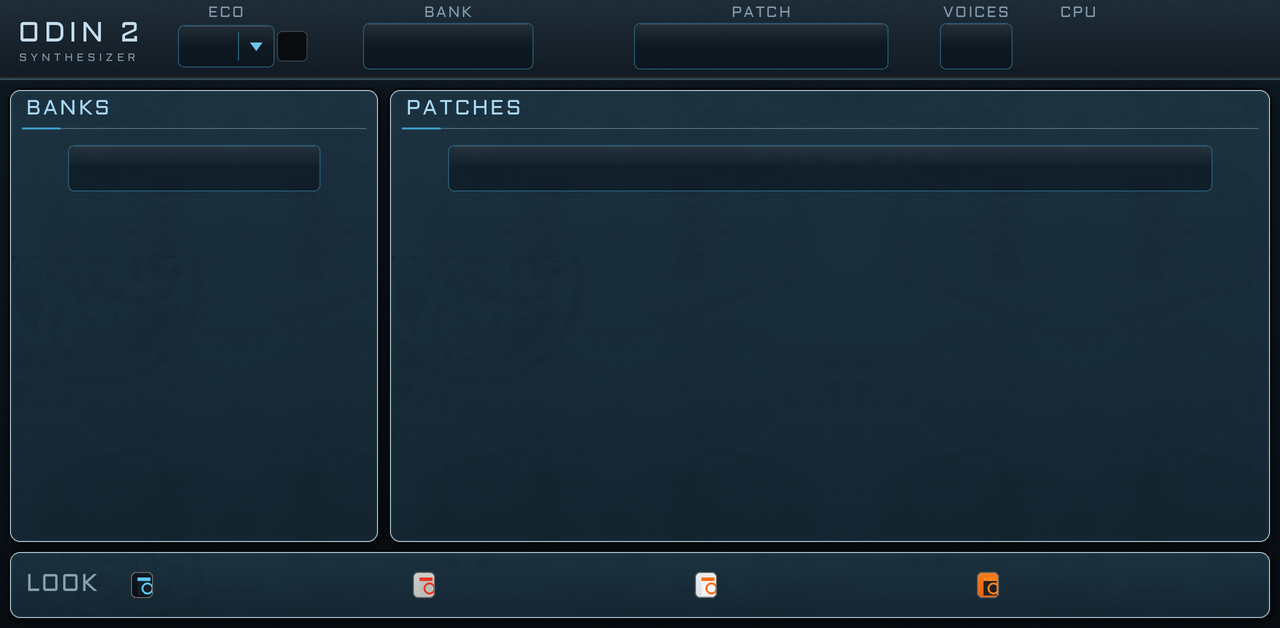
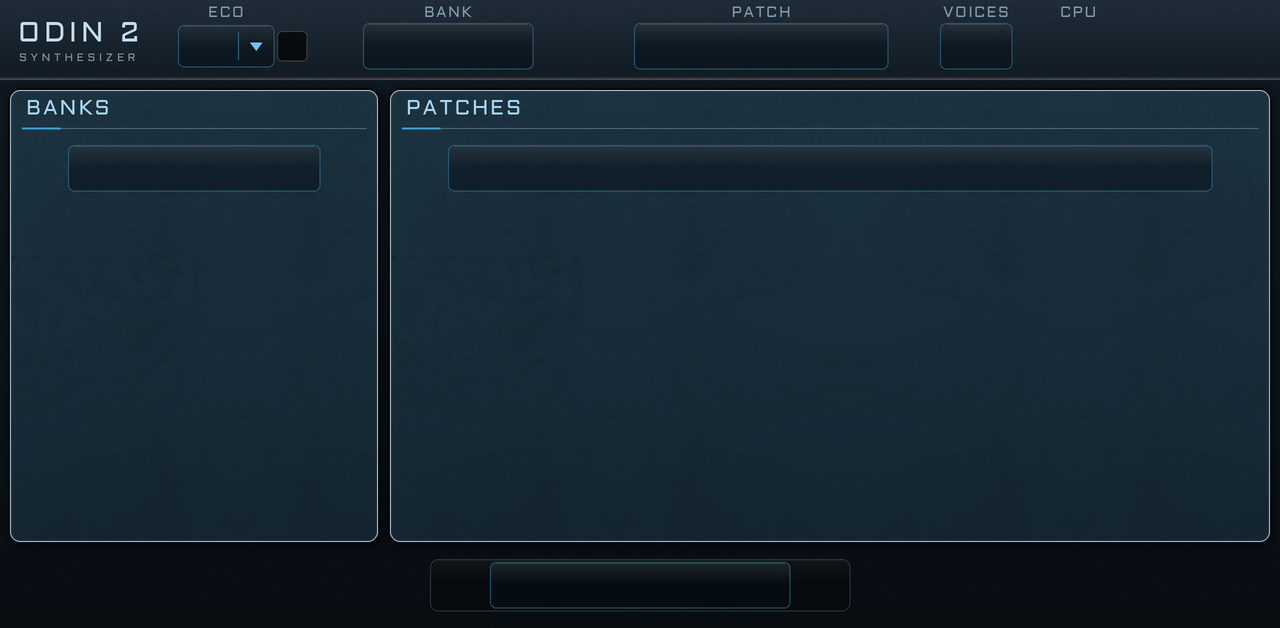
BROWSE: one look box with arrows instead of four look buttons
- params: theme_prev / theme_next (momentary), regenerated params.json and odin_mpc_params.inc.
- engine: the arrows step the look through its four entries and redraw.
- skin: the four look buttons and their chips are replaced by one box holding the look's name between a left and a right arrow.

Claude-Session: https://claude.ai/code/session_01JcLVG46DecCMdTkS3mdig6

Changed region(s): [[0.0, 0.8774, 1.0, 0.9984]]

diff --git a/vst/make_skin.py b/vst/make_skin.py
@@ -964,27 +964,16 @@ def tab_browse():
     px, pw = 388, W - 8 - 388
     panel(px, pw, "PATCHES", h=ph)
     selector(px, pw, "preset_prev", "preset_next", "preset_name", TOP + 80)
-    # the look picker: a bar with one button per look; a window in each button shows that look's chip
+    # the look box: the look's name between a left and a right arrow (the arrows step the look)
     y0 = BOT - LOOK_BAR
-    panel(8, W - 16, "", y=y0, h=LOOK_BAR)
-    label(26, y0 + LOOK_BAR // 2, "LOOK", anchor="lm")
-    n, sh, gap = len(LOOKS), 46, 2
-    sw = min(280, (W - 16 - 110 - 14 - (n - 1) * gap) // n)   # the buttons fill the bar
-    cx, cy = 8 + 110 + (W - 16 - 110 - 14) // 2, y0 + LOOK_BAR // 2
-    x0 = cx - (n * sw + (n - 1) * gap) // 2
-    win = (6, 10, 6 + 22, sh - 10)
-
-    def face(on):
-        b = text_button("", on, sw, sh, 10, ui_=NEUTRAL)
-        m = Image.new("L", b.size, 255)
-        ImageDraw.Draw(m).rounded_rectangle((win[0] - 1, win[1] - 1, win[2], win[3]), 5, fill=0)
-        b.putalpha(ImageChops.multiply(b.getchannel("A"), m))
-        return b
-    line('enum_h cx=%d cy=%d label="" key=theme sw=%d sh=%d img=%s img_on=%s' % (
-        cx, Y(cy), sw, sh, save(face(False), "look_seg.png"), save(face(True), "look_seg_on.png")))
-    for t in range(n):
-        sx = x0 + t * (sw + gap)
-        PAGE.chips.append((sx + win[0], cy - sh // 2 + win[1], sx + win[2], cy - sh // 2 + win[3], t))
+    cx, cy = W // 2, y0 + LOOK_BAR // 2
+    bw_, bh_ = 420, 52
+    PAGE.insets.append((cx - bw_ // 2, cy - bh_ // 2, cx + bw_ // 2, cy + bh_ // 2))
+    left = (lambda u: arrow_button(-1, False, ui_=u), lambda u: arrow_button(-1, True, ui_=u))
+    right = (lambda u: arrow_button(1, False, ui_=u), lambda u: arrow_button(1, True, ui_=u))
+    button_img(cx - bw_ // 2 + 30, cy, "theme_prev", "arrow_l", left[0], left[1], 40, 46)
+    readout(cx, cy, bw_ - 120, 46, "theme", 28)
+    button_img(cx + bw_ // 2 - 30, cy, "theme_next", "arrow_r", right[0], right[1], 40, 46)
     line('qlinks "BROWSE" = browse_bank,browse_patch,-,-,-,-,-,-,-,-,-,-,-,-,-,-')   # banks, patches: each on its own
     finish(PAGE)
 

diff --git a/vst/make_params.py b/vst/make_params.py
@@ -224,6 +224,8 @@ for n in (1, 2, 3):
 special("voices", "Voices")   # read-only: how many voices the budget lets sound now (1.3)
 special("tune", "Master Tune")   # A4 = 415..465 Hz, 440 in the middle; the plugin's, kept across patches (1.3)
 special("theme", "Theme", options=THEMES)   # the page's look, the plugin's own (1.4)
+special("theme_prev", "Prev Theme", momentary=True)   # BROWSE: the look box's left arrow
+special("theme_next", "Next Theme", momentary=True)   # BROWSE: the look box's right arrow
 for i in range(1, BANK_SLOTS + 1):   # BROWSE: the banks (patch categories), one list tile each (1.4)
     special("bank_slot_%d" % i, "Bank %d" % i)
 for i in range(1, PATCH_SLOTS + 1):  # BROWSE: the patches of the bank being browsed (1.4)
@@ -254,7 +256,7 @@ def build():
                 p.update({"min": 0, "max": 9999, "display": "int", "nudge_pct": 10})   # max rewritten from the bank
             elif key == "preset_name":
                 p.update({"display": "string", "poll": False})
-            elif key in ("preset_prev", "preset_next", "bank_prev", "bank_next"):
+            elif key in ("preset_prev", "preset_next", "bank_prev", "bank_next", "theme_prev", "theme_next"):
                 p.update({"momentary": True})
             elif key in ("browse_bank", "browse_patch"):
                 # whole steps, one per BROWSE_TICKS Q-Link moves (a calm scroll); the name shows as the value
@@ -306,7 +308,7 @@ def main():
     # unpolled preset and bank names follow the preset number, the arrows and the BROWSE page's picks
     for p in params:
         if p["key"] in ("osc1_type", "osc2_type", "osc3_type", "preset", "preset_prev", "preset_next", "bank_prev", "bank_next",
-                        "browse_bank", "browse_patch"):
+                        "theme_prev", "theme_next", "browse_bank", "browse_patch"):
             p["refresh_display"] = True
     out = {"name": "Odin 2", "params": params}
     with open(os.path.join(HERE, "params.json"), "w") as f:

diff --git a/src/odin_mpc.cpp b/src/odin_mpc.cpp
@@ -549,6 +549,10 @@ struct Instance {
                 i = i < 0 ? 0 : i >= m ? m - 1 : i;
                 if (at < 0) i = 0;   // the loaded patch is in another bank: the first turn picks this bank's first
                 if (m && ps[i] != preset) loadPreset(ps[i]);
+            } else if ((k == "theme_prev" || k == "theme_next") && v > 0.5f) {   // BROWSE: the look box's arrows
+                if (!tapOnce(k)) break;
+                theme = (theme + (k == "theme_next" ? 1 : NTHEMES - 1)) % NTHEMES;
+                ++displayRev;
             } else if (k == "theme") {
                 int t = (int)std::lround(v);
                 if (t >= 0 && t < NTHEMES && t != theme) theme = t, ++displayRev;
